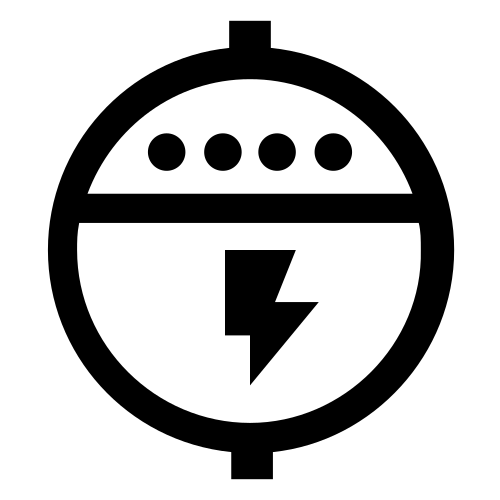
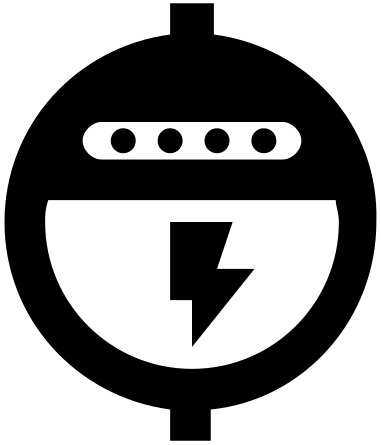
added assets imgs and display node info on double click

diff --git a/experiments/circuit-view/src/components/Circuit.js b/experiments/circuit-view/src/components/Circuit.js
@@ -28,18 +28,28 @@ function initDiagram() {
       $(go.Picture,
         {desiredSize: new go.Size(100,100), source: "images/meter.png"},
         new go.Binding('source', 'type', (type) => {
-          if (type === 'meter') {
-            return 'images/meter.png'
-          }
+          type = type.toLowerCase()
+          const path = 'images'
+          let file = 'meter.png'
+          if (type === 'meter') file = 'meter.png'
+          else if (type === 'busbar') file = 'busbar.png'
+          else if (type === 'control') file = 'control.png'
+          else if (type === 'generator') file = 'generator.png'
+          else if (type === 'station') file = 'station.png'
+          else if (type === 'storage') file = 'storage.png'
+          else if (type === 'substation') file = 'storage.png'
+          else if (type === 'switch') file = 'switch.png'
+          else if (type === 'transformer') file = 'transformer.png'
+          return `${path}\\${file}`
         })),
       $(go.Shape, "Rectangle",
-        {desiredSize:new go.Size(6,6), fromSpot: go.Spot.Right, toSpot: go.Spot.Left, toLinkable: true, cursor: "pointer"},
+        {desiredSize:new go.Size(6,6), fromSpot: go.Spot.Right, toSpot: go.Spot.Left, toLinkable: true, cursor: "pointer", fill: 'white'},
         {portId: 'in', alignment: go.Spot.Left}),
       $(go.Shape, "Rectangle",
-        {desiredSize:new go.Size(6,6), fromSpot: go.Spot.Right, toSpot: go.Spot.Left, fromLinkable: true, cursor: "pointer"},
+        {desiredSize:new go.Size(6,6), fromSpot: go.Spot.Right, toSpot: go.Spot.Left, fromLinkable: true, cursor: "pointer", fill: 'white'},
         {portId: 'out', alignment: go.Spot.Right}),
       $(go.TextBlock,
-        {alignment: new go.Spot(0.5,.5), editable: true, margin: 10},
+        {alignment: new go.Spot(.5,1.1), editable: true, margin: 10},
       	new go.Binding('text', 'text').makeTwoWay()),
       { click: function(e, obj) { 
         console.log("Clicked on " + obj.part.data.key) 
@@ -123,7 +133,7 @@ function Circuit(props) {
         const nodeObj = diagram.model.findNodeDataForKey(dataKey)
         if (nodeObj !== null)
           diagram.model.setDataProperty(nodeObj, "color", "white")
-          setFocusedNode(dataKey)
+          setFocusedNode(String(dataKey))
       })
     }
   }, [])

diff --git a/experiments/circuit-view/src/components/CircuitPalette.js b/experiments/circuit-view/src/components/CircuitPalette.js
@@ -9,11 +9,9 @@ function initPalette() {
   palette.nodeTemplate = 
     $(go.Node, 'Auto',
       new go.Binding('location', 'loc', go.Point.parse).makeTwoWay(go.Point.stringify),
-      $(go.Shape, 'RoundedRectangle',
-        new go.Binding('fill', 'color')),
       $(go.TextBlock,
-        {margin:8, editable:true},
-      new go.Binding('text').makeTwoWay())
+        {margin:8, editable:true, stroke: 'black', background: 'yellow'},
+        new go.Binding('text').makeTwoWay())
     )
 
   return palette
@@ -26,8 +24,15 @@ function CircuitPalette() {
       initPalette={initPalette}
       divClassName="palette-component"
       nodeDataArray={[
-				{ key: 0, text: 'Node A', color:'yellow' },
-        { key: 1, text: 'Node B', color:'pink'}
+				{ key: 0, text: 'Meter', type: 'meter' },
+        { key: 1, text: 'Control', type: 'control'},
+        { key: 2, text: 'Generator', type: 'generator'},
+        { key: 3, text: 'Busbar', type: 'busbar'},
+        { key: 4, text: 'Station', type: 'station'},
+        { key: 5, text: 'Storage', type: 'storage'},
+        { key: 6, text: 'Substation', type: 'substation'},
+        { key: 7, text: 'Switch', type: 'switch'},
+        { key: 8, text: 'Transformer', type: 'transformer'},
       ]}/>
   )
 }

diff --git a/experiments/circuit-view/src/components/Details.js b/experiments/circuit-view/src/components/Details.js
@@ -1,0 +1,40 @@
+import React from 'react'
+import Grid from '@material-ui/core/Grid';
+import TextField from '@material-ui/core/TextField'
+
+
+function Details(props) {
+
+  const { nodeDetails } = props
+  if ( nodeDetails ) console.log(nodeDetails !== undefined)
+  return (
+    <Grid container spacing={3}>
+      <Grid item xs={12}>
+        <TextField
+          label='Key'
+          value= { nodeDetails !== undefined ? nodeDetails.get('key'): ''}
+          margin="normal" /> 
+      </Grid>
+      <Grid item xs={12}>
+        <TextField
+          label='Text'
+          value={ nodeDetails !== undefined ? nodeDetails.get('text') : ''}
+          margin="normal" />
+      </Grid>
+      <Grid item xs={12}>
+        <TextField
+          label="Location"
+          value={ nodeDetails !== undefined ? nodeDetails.get('loc') : ''}
+          margin="normal" />
+      </Grid>
+      <Grid item xs={12}>
+        <TextField
+          label="Type"
+          value={ nodeDetails !== undefined ? nodeDetails.get('type') : ''}
+          margin="normal" />
+      </Grid>
+    </Grid>
+  )
+}
+
+export default Details

diff --git a/experiments/circuit-view/src/components/App.js b/experiments/circuit-view/src/components/App.js
@@ -2,9 +2,9 @@ import React from 'react'
 import { makeStyles } from '@material-ui/core/styles'
 import Fab from '@material-ui/core/Fab'
 import Grid from '@material-ui/core/Grid'
-import TextField from '@material-ui/core/TextField'
 import Circuit from '../containers/Circuit'
 import CircuitPalette from './CircuitPalette'
+import Details from '../containers/Details'
 import '../App.css';
 
 const useStyles = makeStyles(theme => ({
@@ -62,19 +62,8 @@ function App(props) {
           </div>
         </Grid>
         <Grid item xs={3}>
-          <h1>Detail</h1>
-          <TextField
-            label='key'
-            defaultValue="key"
-            margin="normal" />
-          <TextField
-            label='Name'
-            defaultValue="Name"
-            margin="normal" />
-          <TextField
-            label='location'
-            defaultValue="location"
-            margin="normal" />
+          <h1>Node Details</h1>
+          <Details />
         </Grid>
       </Grid>
     </div>

diff --git a/experiments/circuit-view/src/reducers/nodes.js b/experiments/circuit-view/src/reducers/nodes.js
@@ -7,9 +7,9 @@ import {
 
 const initialState = fromJS({
   '0': { key: '0', text: 'Alpha', color: 'lightblue', loc: '0 0', type: 'meter' },
-  '1': { key: '1', text: 'Beta', color: 'orange', loc: '150 0' },
-  '2': { key: '2', text: 'Gamma', color: 'lightgreen', loc: '0 150' },
-  '3': { key: '3', text: 'Delta', color: 'pink', loc: '300 150' } 
+  '1': { key: '1', text: 'Beta', color: 'orange', loc: '150 0', type: 'busbar' },
+  '2': { key: '2', text: 'Gamma', color: 'lightgreen', loc: '0 150', type: 'station' },
+  '3': { key: '3', text: 'Delta', color: 'pink', loc: '300 150', type: 'meter' }
 })
 
 const nodes = (state = initialState, action) => {

diff --git a/experiments/circuit-view/src/containers/Details.js b/experiments/circuit-view/src/containers/Details.js
@@ -1,0 +1,22 @@
+import { connect } from 'react-redux'
+import Details from '../components/Details'
+
+function getDetails(state) {
+  const id = state['focusedNode']
+  if (!id) return
+  const node = state['nodes'].get(id)
+  if (node) return node
+}
+
+const mapStateToProps = state => ({
+  nodeDetails: getDetails(state) 
+})
+
+
+const mapDispatchToProps = distpatch =>({
+})
+
+export default connect(
+  mapStateToProps,
+  mapDispatchToProps,
+)(Details)
